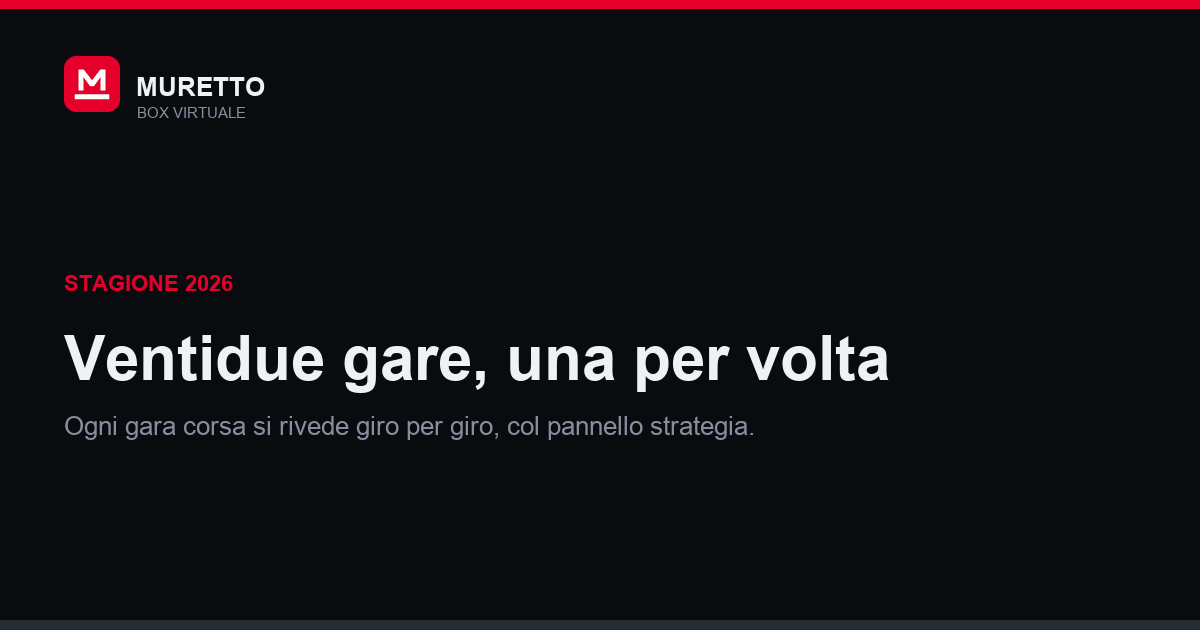
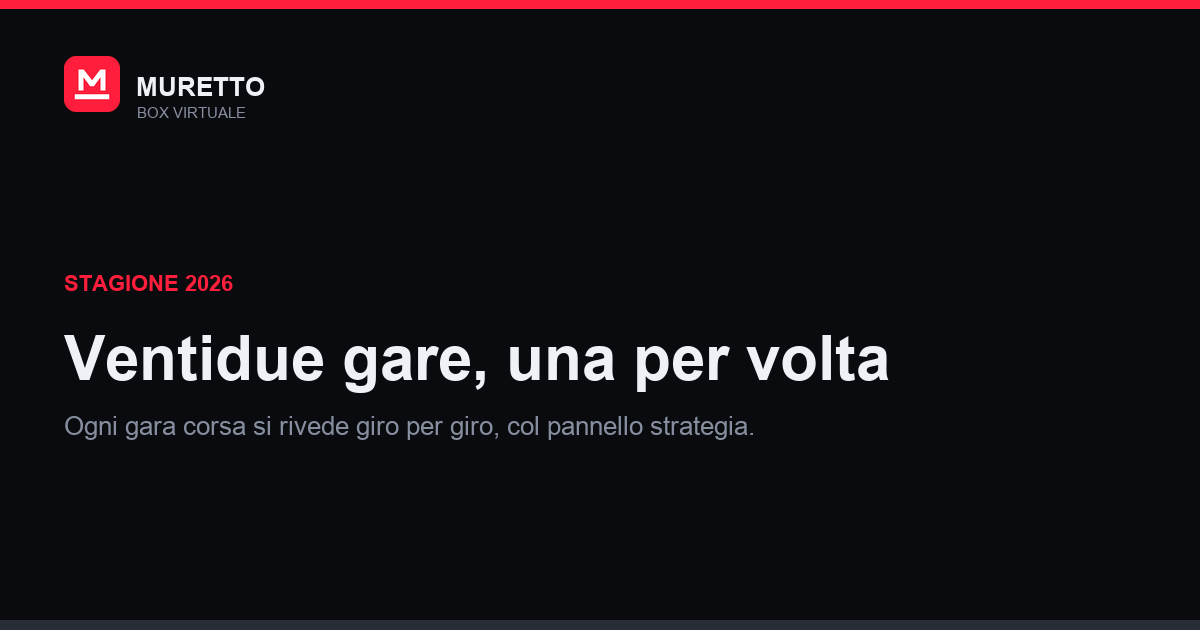
marchio: un rosso solo, e letto da muro.css
Le anteprime social usavano #E4002B mentre il sito usa #FF1E3C: lo stesso
marchio in due tonalita', una nei link condivisi e una ovunque altrove.

I due generatori non ribattono piu' il valore: lo leggono da demo/muro.css
attraverso ai_lab/social/marca (col ripiego se il modulo non e' raggiungibile).
Un colore scritto a mano in due posti diverge sempre — la sola domanda e' quando
ce ne accorgiamo, e stavolta ce ne siamo accorti guardando due immagini vicine.

Rigenerate le 7 anteprime di pagina; ricolorate sul posto le 12 degli articoli
gia' pubblicati. La fascia in alto degli articoli NON e' stata toccata: li' il
colore e' l'accento dell'articolo, che e' una scelta editoriale sua e non il
rosso del marchio.

Changed region(s): [[0.0, 0.0, 1.0, 0.0302], [0.0308, 0.0905, 0.1233, 0.181], [0.0617, 0.4222, 0.185, 0.4825]]

diff --git a/ai_lab/redazione/statico.py b/ai_lab/redazione/statico.py
@@ -132,9 +132,30 @@ def esc(s) -> str:
             .replace(">", "&gt;").replace('"', "&quot;"))
 
 
+def _rosso() -> str:
+    """Il rosso del marchio, LETTO da demo/muro.css.
+
+    Qui era scritto a mano un rosso diverso da quello del sito: due tonalita' per
+    lo stesso marchio, una nelle anteprime social e una ovunque altrove. Un
+    valore ribattuto a mano diverge sempre — la sola domanda e' quando ce ne
+    accorgiamo. Ora viene dalla stessa fonte del resto, col ripiego se il modulo
+    non e' raggiungibile."""
+    try:
+        import sys, os
+        sys.path.insert(0, os.path.abspath(os.path.join(
+            os.path.dirname(os.path.abspath(__file__)), "..", "..")))
+        from ai_lab.social.marca import c
+        return c("rosso")
+    except Exception:
+        return "#FF1E3C"
+
+
+ROSSO_MARCHIO = _rosso()
+
+
 def _ac(accent) -> str:
     if not accent:
-        return "#E4002B"
+        return ROSSO_MARCHIO
     return AC_MAP.get(accent, accent) if accent.startswith("var(") else accent
 
 
@@ -479,10 +500,10 @@ def genera_og(art) -> bool:
         # che non si genera.
         try:
             from ai_lab.social import marchio as _mk
-            _seg = _mk.png(56, fondo="#E4002B", margine=.10)
+            _seg = _mk.png(56, fondo=ROSSO_MARCHIO, margine=.10)
             img.paste(_seg, (64, 56), _seg)
         except Exception:
-            d.rounded_rectangle([64, 56, 120, 112], radius=13, fill="#E4002B")
+            d.rounded_rectangle([64, 56, 120, 112], radius=13, fill=ROSSO_MARCHIO)
             d.text((92, 84), "M", font=font(GRASSETTO, 34), fill="#FFFFFF", anchor="mm")
         f_marca = font(GRASSETTO, 26)
         d.text((136, 72), "MURETTO", font=f_marca, fill="#FFFFFF")

diff --git a/gen_og_pagine.py b/gen_og_pagine.py
@@ -18,7 +18,20 @@ QUI = os.path.dirname(os.path.abspath(__file__))
 OG = os.path.join(QUI, "demo", "og")
 
 W, H = 1200, 630
-FONDO, TESTO, FIOCO, ROSSO, LINEA = "#0A0B0E", "#EEF1F6", "#868E9F", "#E4002B", "#282C35"
+FONDO, TESTO, FIOCO, LINEA = "#0A0B0E", "#EEF1F6", "#868E9F", "#282C35"
+
+
+def _rosso() -> str:
+    """Il rosso del marchio, LETTO da demo/muro.css invece che ribattuto qui:
+    era una tonalita' diversa da quella del sito, per lo stesso marchio."""
+    try:
+        from ai_lab.social.marca import c
+        return c("rosso")
+    except Exception:
+        return "#FF1E3C"
+
+
+ROSSO = _rosso()
 
 # occhiello, titolo, riga sotto.  Il titolo NON e' il <title> della pagina:
 # li' serve il nome del sito per i risultati di ricerca, qui il marchio c'e' gia'
